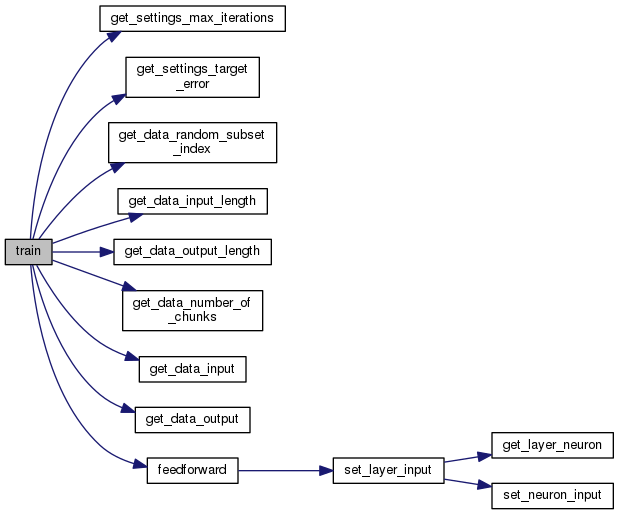
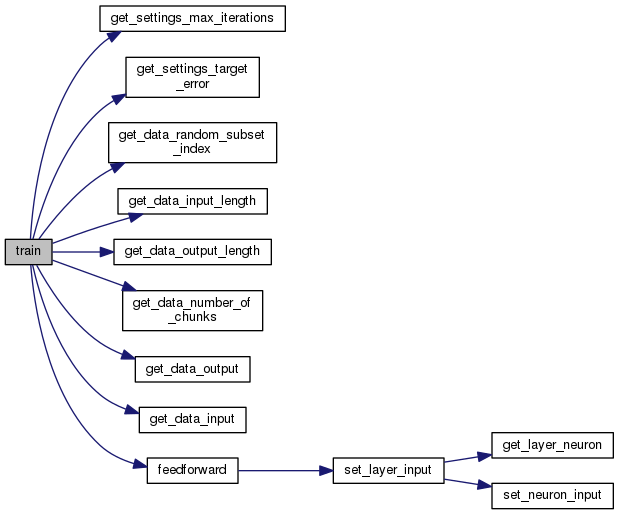
Each signal chunk leads to the same network output Splitting main training for loop into 2 inner loop one for forward propagation and the second one for backpropagation

Changed region(s): [[0.1842, 0.6835, 0.4297, 0.7456], [0.1842, 0.7767, 0.4297, 0.8388]]

diff --git a/docs/brain__data__reader_8h.html b/docs/brain__data__reader_8h.html
@@ -133,9 +133,9 @@ Functions</h2></td></tr>
 <tr class="memitem:a07ee5e28be472c0bb963e72211421251"><td class="memItemLeft" align="right" valign="top">BrainSignal&#160;</td><td class="memItemRight" valign="bottom"><a class="el" href="brain__data__reader_8h.html#a07ee5e28be472c0bb963e72211421251">get_data_input</a> (const <a class="el" href="brain__types_8h.html#add44c3d64045810f58dd68fbcdc8ef42">BrainData</a> data, const BrainUint index, const BrainUint chunk_index)</td></tr>
 <tr class="memdesc:a07ee5e28be472c0bb963e72211421251"><td class="mdescLeft">&#160;</td><td class="mdescRight">get on input signal from the BrainData  <a href="#a07ee5e28be472c0bb963e72211421251">More...</a><br /></td></tr>
 <tr class="separator:a07ee5e28be472c0bb963e72211421251"><td class="memSeparator" colspan="2">&#160;</td></tr>
-<tr class="memitem:a7386bfe0d72cb80b4d79bde89164f2c5"><td class="memItemLeft" align="right" valign="top">BrainSignal&#160;</td><td class="memItemRight" valign="bottom"><a class="el" href="brain__data__reader_8h.html#a7386bfe0d72cb80b4d79bde89164f2c5">get_data_output</a> (const <a class="el" href="brain__types_8h.html#add44c3d64045810f58dd68fbcdc8ef42">BrainData</a> data, const BrainUint index, const BrainUint chunk_index)</td></tr>
-<tr class="memdesc:a7386bfe0d72cb80b4d79bde89164f2c5"><td class="mdescLeft">&#160;</td><td class="mdescRight">get an output signal from the BrainData  <a href="#a7386bfe0d72cb80b4d79bde89164f2c5">More...</a><br /></td></tr>
-<tr class="separator:a7386bfe0d72cb80b4d79bde89164f2c5"><td class="memSeparator" colspan="2">&#160;</td></tr>
+<tr class="memitem:af86bd7390f646a72c63ec78f34643c7d"><td class="memItemLeft" align="right" valign="top">BrainSignal&#160;</td><td class="memItemRight" valign="bottom"><a class="el" href="brain__data__reader_8h.html#af86bd7390f646a72c63ec78f34643c7d">get_data_output</a> (const <a class="el" href="brain__types_8h.html#add44c3d64045810f58dd68fbcdc8ef42">BrainData</a> data, const BrainUint index)</td></tr>
+<tr class="memdesc:af86bd7390f646a72c63ec78f34643c7d"><td class="mdescLeft">&#160;</td><td class="mdescRight">get an output signal from the BrainData  <a href="#af86bd7390f646a72c63ec78f34643c7d">More...</a><br /></td></tr>
+<tr class="separator:af86bd7390f646a72c63ec78f34643c7d"><td class="memSeparator" colspan="2">&#160;</td></tr>
 <tr class="memitem:a054cc968ff8383d3b163812441d3dcf3"><td class="memItemLeft" align="right" valign="top">BrainUint&#160;</td><td class="memItemRight" valign="bottom"><a class="el" href="brain__data__reader_8h.html#a054cc968ff8383d3b163812441d3dcf3">get_data_random_subset_index</a> (const <a class="el" href="brain__types_8h.html#add44c3d64045810f58dd68fbcdc8ef42">BrainData</a> data)</td></tr>
 <tr class="memdesc:a054cc968ff8383d3b163812441d3dcf3"><td class="mdescLeft">&#160;</td><td class="mdescRight">get a random input index  <a href="#a054cc968ff8383d3b163812441d3dcf3">More...</a><br /></td></tr>
 <tr class="separator:a054cc968ff8383d3b163812441d3dcf3"><td class="memSeparator" colspan="2">&#160;</td></tr>
@@ -376,7 +376,7 @@ Functions</h2></td></tr>
 
 </div>
 </div>
-<a class="anchor" id="a7386bfe0d72cb80b4d79bde89164f2c5"></a>
+<a class="anchor" id="af86bd7390f646a72c63ec78f34643c7d"></a>
 <div class="memitem">
 <div class="memproto">
       <table class="memname">
@@ -390,13 +390,7 @@ Functions</h2></td></tr>
           <td class="paramkey"></td>
           <td></td>
           <td class="paramtype">const BrainUint&#160;</td>
-          <td class="paramname"><em>index</em>, </td>
-        </tr>
-        <tr>
-          <td class="paramkey"></td>
-          <td></td>
-          <td class="paramtype">const BrainUint&#160;</td>
-          <td class="paramname"><em>chunk_index</em>&#160;</td>
+          <td class="paramname"><em>index</em>&#160;</td>
         </tr>
         <tr>
           <td></td>
@@ -410,8 +404,7 @@ Functions</h2></td></tr>
 <dl class="params"><dt>Parameters</dt><dd>
   <table class="params">
     <tr><td class="paramname">data</td><td>The BrainData struct </td></tr>
-    <tr><td class="paramname">index</td><td>the output signal index </td></tr>
-    <tr><td class="paramname">chunk_index</td><td>Signal chunk index</td></tr>
+    <tr><td class="paramname">index</td><td>the output signal index</td></tr>
   </table>
   </dd>
 </dl>
@@ -422,8 +415,8 @@ Functions</h2></td></tr>
 <div id="dynsection-5-summary" class="dynsummary" style="display:block;">
 </div>
 <div id="dynsection-5-content" class="dyncontent" style="display:none;">
-<div class="center"><img src="brain__data__reader_8h_a7386bfe0d72cb80b4d79bde89164f2c5_icgraph.png" border="0" usemap="#brain__data__reader_8h_a7386bfe0d72cb80b4d79bde89164f2c5_icgraph" alt=""/></div>
-<map name="brain__data__reader_8h_a7386bfe0d72cb80b4d79bde89164f2c5_icgraph" id="brain__data__reader_8h_a7386bfe0d72cb80b4d79bde89164f2c5_icgraph">
+<div class="center"><img src="brain__data__reader_8h_af86bd7390f646a72c63ec78f34643c7d_icgraph.png" border="0" usemap="#brain__data__reader_8h_af86bd7390f646a72c63ec78f34643c7d_icgraph" alt=""/></div>
+<map name="brain__data__reader_8h_af86bd7390f646a72c63ec78f34643c7d_icgraph" id="brain__data__reader_8h_af86bd7390f646a72c63ec78f34643c7d_icgraph">
 <area shape="rect" id="node2" href="brain__network__builder_8h.html#afb150beb6b56e58557b97e41291595eb" title="launch the training process for the neural network " alt="" coords="168,5,215,32"/></map>
 </div>
 </p>
@@ -562,7 +555,7 @@ Functions</h2></td></tr>
 <div id="nav-path" class="navpath"><!-- id is needed for treeview function! -->
   <ul>
     <li class="navelem"><a class="el" href="dir_bb5fc065f306d4c7566e1c0cbc3a8658.html">libBrain</a></li><li class="navelem"><a class="el" href="dir_50fb934e504a511d868cd5beea725daa.html">src</a></li><li class="navelem"><a class="el" href="dir_f5403d165038cad814c77f643c15b64b.html">brain</a></li><li class="navelem"><a class="el" href="brain__data__reader_8h.html">brain_data_reader.h</a></li>
-    <li class="footer">Generated on Sat Dec 24 2016 18:09:58 for libBrain by
+    <li class="footer">Generated on Mon Dec 26 2016 18:58:37 for libBrain by
     <a href="http://www.doxygen.org/index.html">
     <img class="footer" src="doxygen.png" alt="doxygen"/></a> 1.8.8 </li>
   </ul>

diff --git a/docs/brain__network__builder_8h.html b/docs/brain__network__builder_8h.html
@@ -418,7 +418,7 @@ Functions</h2></td></tr>
 <div id="dynsection-6-content" class="dyncontent" style="display:none;">
 <div class="center"><img src="brain__network__builder_8h_afb150beb6b56e58557b97e41291595eb_cgraph.png" border="0" usemap="#brain__network__builder_8h_afb150beb6b56e58557b97e41291595eb_cgraph" alt=""/></div>
 <map name="brain__network__builder_8h_afb150beb6b56e58557b97e41291595eb_cgraph" id="brain__network__builder_8h_afb150beb6b56e58557b97e41291595eb_cgraph">
-<area shape="rect" id="node2" href="brain__settings_8h.html#adcd9fce1bf393ce82be8a25602b791c1" title="get training max iterations " alt="" coords="100,5,285,32"/><area shape="rect" id="node3" href="brain__settings_8h.html#a4a70e388d52dc4c605d9a9d9932847a0" title="get training target error " alt="" coords="126,57,259,98"/><area shape="rect" id="node4" href="brain__data__reader_8h.html#a054cc968ff8383d3b163812441d3dcf3" title="get a random input index " alt="" coords="109,122,277,163"/><area shape="rect" id="node5" href="brain__data__reader_8h.html#a042d67d146c4a88afd7ba4febfd7cb13" title="get input signal length " alt="" coords="118,188,267,215"/><area shape="rect" id="node6" href="brain__data__reader_8h.html#a9c1590c4134d47b33f8b9665fa3559ab" title="get output signal length " alt="" coords="114,239,271,265"/><area shape="rect" id="node7" href="brain__data__reader_8h.html#a6ea2eb8d6327f5ed53b1f71aa4b207b5" title="get the number of chunk for a signal " alt="" coords="123,290,263,331"/><area shape="rect" id="node8" href="brain__data__reader_8h.html#a07ee5e28be472c0bb963e72211421251" title="get on input signal from the BrainData " alt="" coords="139,356,246,383"/><area shape="rect" id="node9" href="brain__data__reader_8h.html#a7386bfe0d72cb80b4d79bde89164f2c5" title="get an output signal from the BrainData " alt="" coords="135,407,250,433"/><area shape="rect" id="node10" href="brain__network__builder_8h.html#a898f07e0d90f3dee6b627ae2b7d96f71" title="propagate an input signal from the input signal to the output layer " alt="" coords="147,457,238,484"/><area shape="rect" id="node11" href="brain__layer__builder_8h.html#a93b759f69b75965db34e744cfec2cf9b" title="set the layer input " alt="" coords="333,457,444,484"/><area shape="rect" id="node12" href="brain__layer__builder_8h.html#a8b6c1e634e8d7b7fcfe3a526c6b11755" title="get a Neuron from the layer " alt="" coords="492,432,613,459"/><area shape="rect" id="node13" href="brain__neuron__builder_8h.html#a1ce5aca37f6d481fe80722ac65fcb39c" title="set the input signal on a neuron " alt="" coords="492,483,613,509"/></map>
+<area shape="rect" id="node2" href="brain__settings_8h.html#adcd9fce1bf393ce82be8a25602b791c1" title="get training max iterations " alt="" coords="100,5,285,32"/><area shape="rect" id="node3" href="brain__settings_8h.html#a4a70e388d52dc4c605d9a9d9932847a0" title="get training target error " alt="" coords="126,57,259,98"/><area shape="rect" id="node4" href="brain__data__reader_8h.html#a054cc968ff8383d3b163812441d3dcf3" title="get a random input index " alt="" coords="109,122,277,163"/><area shape="rect" id="node5" href="brain__data__reader_8h.html#a042d67d146c4a88afd7ba4febfd7cb13" title="get input signal length " alt="" coords="118,188,267,215"/><area shape="rect" id="node6" href="brain__data__reader_8h.html#a9c1590c4134d47b33f8b9665fa3559ab" title="get output signal length " alt="" coords="114,239,271,265"/><area shape="rect" id="node7" href="brain__data__reader_8h.html#a6ea2eb8d6327f5ed53b1f71aa4b207b5" title="get the number of chunk for a signal " alt="" coords="123,290,263,331"/><area shape="rect" id="node8" href="brain__data__reader_8h.html#af86bd7390f646a72c63ec78f34643c7d" title="get an output signal from the BrainData " alt="" coords="135,356,250,383"/><area shape="rect" id="node9" href="brain__data__reader_8h.html#a07ee5e28be472c0bb963e72211421251" title="get on input signal from the BrainData " alt="" coords="139,407,246,433"/><area shape="rect" id="node10" href="brain__network__builder_8h.html#a898f07e0d90f3dee6b627ae2b7d96f71" title="propagate an input signal from the input signal to the output layer " alt="" coords="147,457,238,484"/><area shape="rect" id="node11" href="brain__layer__builder_8h.html#a93b759f69b75965db34e744cfec2cf9b" title="set the layer input " alt="" coords="333,457,444,484"/><area shape="rect" id="node12" href="brain__layer__builder_8h.html#a8b6c1e634e8d7b7fcfe3a526c6b11755" title="get a Neuron from the layer " alt="" coords="492,432,613,459"/><area shape="rect" id="node13" href="brain__neuron__builder_8h.html#a1ce5aca37f6d481fe80722ac65fcb39c" title="set the input signal on a neuron " alt="" coords="492,483,613,509"/></map>
 </div>
 </p>
 
@@ -430,7 +430,7 @@ Functions</h2></td></tr>
 <div id="nav-path" class="navpath"><!-- id is needed for treeview function! -->
   <ul>
     <li class="navelem"><a class="el" href="dir_bb5fc065f306d4c7566e1c0cbc3a8658.html">libBrain</a></li><li class="navelem"><a class="el" href="dir_50fb934e504a511d868cd5beea725daa.html">src</a></li><li class="navelem"><a class="el" href="dir_f5403d165038cad814c77f643c15b64b.html">brain</a></li><li class="navelem"><a class="el" href="brain__network__builder_8h.html">brain_network_builder.h</a></li>
-    <li class="footer">Generated on Sat Dec 24 2016 18:09:58 for libBrain by
+    <li class="footer">Generated on Mon Dec 26 2016 18:58:37 for libBrain by
     <a href="http://www.doxygen.org/index.html">
     <img class="footer" src="doxygen.png" alt="doxygen"/></a> 1.8.8 </li>
   </ul>

diff --git a/docs/search/all_6.js b/docs/search/all_6.js
@@ -3,7 +3,7 @@ var searchData=
   ['get_5fdata_5finput',['get_data_input',['../brain__data__reader_8h.html#a07ee5e28be472c0bb963e72211421251',1,'brain_data_reader.c']]],
   ['get_5fdata_5finput_5flength',['get_data_input_length',['../brain__data__reader_8h.html#a042d67d146c4a88afd7ba4febfd7cb13',1,'brain_data_reader.c']]],
   ['get_5fdata_5fnumber_5fof_5fchunks',['get_data_number_of_chunks',['../brain__data__reader_8h.html#a6ea2eb8d6327f5ed53b1f71aa4b207b5',1,'brain_data_reader.c']]],
-  ['get_5fdata_5foutput',['get_data_output',['../brain__data__reader_8h.html#a7386bfe0d72cb80b4d79bde89164f2c5',1,'brain_data_reader.c']]],
+  ['get_5fdata_5foutput',['get_data_output',['../brain__data__reader_8h.html#af86bd7390f646a72c63ec78f34643c7d',1,'brain_data_reader.c']]],
   ['get_5fdata_5foutput_5flength',['get_data_output_length',['../brain__data__reader_8h.html#a9c1590c4134d47b33f8b9665fa3559ab',1,'brain_data_reader.c']]],
   ['get_5fdata_5frandom_5fsubset_5findex',['get_data_random_subset_index',['../brain__data__reader_8h.html#a054cc968ff8383d3b163812441d3dcf3',1,'brain_data_reader.c']]],
   ['get_5flayer_5fneuron',['get_layer_neuron',['../brain__layer__builder_8h.html#a8b6c1e634e8d7b7fcfe3a526c6b11755',1,'brain_layer_builder.c']]],

diff --git a/docs/search/functions_3.js b/docs/search/functions_3.js
@@ -3,7 +3,7 @@ var searchData=
   ['get_5fdata_5finput',['get_data_input',['../brain__data__reader_8h.html#a07ee5e28be472c0bb963e72211421251',1,'brain_data_reader.c']]],
   ['get_5fdata_5finput_5flength',['get_data_input_length',['../brain__data__reader_8h.html#a042d67d146c4a88afd7ba4febfd7cb13',1,'brain_data_reader.c']]],
   ['get_5fdata_5fnumber_5fof_5fchunks',['get_data_number_of_chunks',['../brain__data__reader_8h.html#a6ea2eb8d6327f5ed53b1f71aa4b207b5',1,'brain_data_reader.c']]],
-  ['get_5fdata_5foutput',['get_data_output',['../brain__data__reader_8h.html#a7386bfe0d72cb80b4d79bde89164f2c5',1,'brain_data_reader.c']]],
+  ['get_5fdata_5foutput',['get_data_output',['../brain__data__reader_8h.html#af86bd7390f646a72c63ec78f34643c7d',1,'brain_data_reader.c']]],
   ['get_5fdata_5foutput_5flength',['get_data_output_length',['../brain__data__reader_8h.html#a9c1590c4134d47b33f8b9665fa3559ab',1,'brain_data_reader.c']]],
   ['get_5fdata_5frandom_5fsubset_5findex',['get_data_random_subset_index',['../brain__data__reader_8h.html#a054cc968ff8383d3b163812441d3dcf3',1,'brain_data_reader.c']]],
   ['get_5flayer_5fneuron',['get_layer_neuron',['../brain__layer__builder_8h.html#a8b6c1e634e8d7b7fcfe3a526c6b11755',1,'brain_layer_builder.c']]],

diff --git a/docs/globals_func.html b/docs/globals_func.html
@@ -175,7 +175,7 @@ $(document).ready(function(){initNavTree('globals_func.html','');});
 : <a class="el" href="brain__data__reader_8h.html#a6ea2eb8d6327f5ed53b1f71aa4b207b5">brain_data_reader.h</a>
 </li>
 <li>get_data_output()
-: <a class="el" href="brain__data__reader_8h.html#a7386bfe0d72cb80b4d79bde89164f2c5">brain_data_reader.h</a>
+: <a class="el" href="brain__data__reader_8h.html#af86bd7390f646a72c63ec78f34643c7d">brain_data_reader.h</a>
 </li>
 <li>get_data_output_length()
 : <a class="el" href="brain__data__reader_8h.html#a9c1590c4134d47b33f8b9665fa3559ab">brain_data_reader.h</a>
@@ -318,7 +318,7 @@ $(document).ready(function(){initNavTree('globals_func.html','');});
 <!-- start footer part -->
 <div id="nav-path" class="navpath"><!-- id is needed for treeview function! -->
   <ul>
-    <li class="footer">Generated on Sat Dec 24 2016 18:09:58 for libBrain by
+    <li class="footer">Generated on Mon Dec 26 2016 18:58:38 for libBrain by
     <a href="http://www.doxygen.org/index.html">
     <img class="footer" src="doxygen.png" alt="doxygen"/></a> 1.8.8 </li>
   </ul>

diff --git a/docs/globals.html b/docs/globals.html
@@ -224,7 +224,7 @@ $(document).ready(function(){initNavTree('globals.html','');});
 : <a class="el" href="brain__data__reader_8h.html#a6ea2eb8d6327f5ed53b1f71aa4b207b5">brain_data_reader.h</a>
 </li>
 <li>get_data_output()
-: <a class="el" href="brain__data__reader_8h.html#a7386bfe0d72cb80b4d79bde89164f2c5">brain_data_reader.h</a>
+: <a class="el" href="brain__data__reader_8h.html#af86bd7390f646a72c63ec78f34643c7d">brain_data_reader.h</a>
 </li>
 <li>get_data_output_length()
 : <a class="el" href="brain__data__reader_8h.html#a9c1590c4134d47b33f8b9665fa3559ab">brain_data_reader.h</a>
@@ -415,7 +415,7 @@ $(document).ready(function(){initNavTree('globals.html','');});
 <!-- start footer part -->
 <div id="nav-path" class="navpath"><!-- id is needed for treeview function! -->
   <ul>
-    <li class="footer">Generated on Sat Dec 24 2016 18:09:58 for libBrain by
+    <li class="footer">Generated on Mon Dec 26 2016 18:58:38 for libBrain by
     <a href="http://www.doxygen.org/index.html">
     <img class="footer" src="doxygen.png" alt="doxygen"/></a> 1.8.8 </li>
   </ul>

diff --git a/docs/struct_data.html b/docs/struct_data.html
@@ -116,8 +116,6 @@ $(document).ready(function(){initNavTree('struct_data.html','');});
 </div>
 <div id="dynsection-0-content" class="dyncontent" style="display:none;">
 <div class="center"><img src="struct_data__coll__graph.png" border="0" usemap="#_data_coll__map" alt="Collaboration graph"/></div>
-<map name="_data_coll__map" id="_data_coll__map">
-</map>
 </div>
 <table class="memberdecls">
 <tr class="heading"><td colspan="2"><h2 class="groupheader"><a name="pub-attribs"></a>
@@ -256,7 +254,7 @@ Data Fields</h2></td></tr>
 <div id="nav-path" class="navpath"><!-- id is needed for treeview function! -->
   <ul>
     <li class="navelem"><a class="el" href="struct_data.html">Data</a></li>
-    <li class="footer">Generated on Sat Dec 24 2016 18:09:58 for libBrain by
+    <li class="footer">Generated on Mon Dec 26 2016 18:58:37 for libBrain by
     <a href="http://www.doxygen.org/index.html">
     <img class="footer" src="doxygen.png" alt="doxygen"/></a> 1.8.8 </li>
   </ul>

diff --git a/docs/brain__data__reader_8h.js b/docs/brain__data__reader_8h.js
@@ -5,7 +5,7 @@ var brain__data__reader_8h =
     [ "get_data_input", "brain__data__reader_8h.html#a07ee5e28be472c0bb963e72211421251", null ],
     [ "get_data_input_length", "brain__data__reader_8h.html#a042d67d146c4a88afd7ba4febfd7cb13", null ],
     [ "get_data_number_of_chunks", "brain__data__reader_8h.html#a6ea2eb8d6327f5ed53b1f71aa4b207b5", null ],
-    [ "get_data_output", "brain__data__reader_8h.html#a7386bfe0d72cb80b4d79bde89164f2c5", null ],
+    [ "get_data_output", "brain__data__reader_8h.html#af86bd7390f646a72c63ec78f34643c7d", null ],
     [ "get_data_output_length", "brain__data__reader_8h.html#a9c1590c4134d47b33f8b9665fa3559ab", null ],
     [ "get_data_random_subset_index", "brain__data__reader_8h.html#a054cc968ff8383d3b163812441d3dcf3", null ],
     [ "new_data", "brain__data__reader_8h.html#a15bbad13cb6a3877c752af7b5e39a61a", null ]

diff --git a/docs/brain__neuron__builder_8h.html b/docs/brain__neuron__builder_8h.html
@@ -523,7 +523,7 @@ Functions</h2></td></tr>
 <div id="nav-path" class="navpath"><!-- id is needed for treeview function! -->
   <ul>
     <li class="navelem"><a class="el" href="dir_bb5fc065f306d4c7566e1c0cbc3a8658.html">libBrain</a></li><li class="navelem"><a class="el" href="dir_50fb934e504a511d868cd5beea725daa.html">src</a></li><li class="navelem"><a class="el" href="dir_f5403d165038cad814c77f643c15b64b.html">brain</a></li><li class="navelem"><a class="el" href="brain__neuron__builder_8h.html">brain_neuron_builder.h</a></li>
-    <li class="footer">Generated on Sat Dec 24 2016 18:09:58 for libBrain by
+    <li class="footer">Generated on Mon Dec 26 2016 18:58:37 for libBrain by
     <a href="http://www.doxygen.org/index.html">
     <img class="footer" src="doxygen.png" alt="doxygen"/></a> 1.8.8 </li>
   </ul>

diff --git a/docs/brain__layer__builder_8h.html b/docs/brain__layer__builder_8h.html
@@ -469,7 +469,7 @@ Functions</h2></td></tr>
 <div id="nav-path" class="navpath"><!-- id is needed for treeview function! -->
   <ul>
     <li class="navelem"><a class="el" href="dir_bb5fc065f306d4c7566e1c0cbc3a8658.html">libBrain</a></li><li class="navelem"><a class="el" href="dir_50fb934e504a511d868cd5beea725daa.html">src</a></li><li class="navelem"><a class="el" href="dir_f5403d165038cad814c77f643c15b64b.html">brain</a></li><li class="navelem"><a class="el" href="brain__layer__builder_8h.html">brain_layer_builder.h</a></li>
-    <li class="footer">Generated on Sat Dec 24 2016 18:09:58 for libBrain by
+    <li class="footer">Generated on Mon Dec 26 2016 18:58:37 for libBrain by
     <a href="http://www.doxygen.org/index.html">
     <img class="footer" src="doxygen.png" alt="doxygen"/></a> 1.8.8 </li>
   </ul>

diff --git a/docs/brain__builder_8h.html b/docs/brain__builder_8h.html
@@ -261,7 +261,7 @@ Functions</h2></td></tr>
 <div id="nav-path" class="navpath"><!-- id is needed for treeview function! -->
   <ul>
     <li class="navelem"><a class="el" href="dir_bb5fc065f306d4c7566e1c0cbc3a8658.html">libBrain</a></li><li class="navelem"><a class="el" href="dir_50fb934e504a511d868cd5beea725daa.html">src</a></li><li class="navelem"><a class="el" href="dir_827e07ebf67888999800a5fb799d1e3f.html">builder</a></li><li class="navelem"><a class="el" href="brain__builder_8h.html">brain_builder.h</a></li>
-    <li class="footer">Generated on Sat Dec 24 2016 18:09:58 for libBrain by
+    <li class="footer">Generated on Mon Dec 26 2016 18:58:37 for libBrain by
     <a href="http://www.doxygen.org/index.html">
     <img class="footer" src="doxygen.png" alt="doxygen"/></a> 1.8.8 </li>
   </ul>

diff --git a/docs/brain__settings_8h.html b/docs/brain__settings_8h.html
@@ -771,7 +771,7 @@ Functions</h2></td></tr>
 <div id="nav-path" class="navpath"><!-- id is needed for treeview function! -->
   <ul>
     <li class="navelem"><a class="el" href="dir_bb5fc065f306d4c7566e1c0cbc3a8658.html">libBrain</a></li><li class="navelem"><a class="el" href="dir_50fb934e504a511d868cd5beea725daa.html">src</a></li><li class="navelem"><a class="el" href="dir_f5403d165038cad814c77f643c15b64b.html">brain</a></li><li class="navelem"><a class="el" href="brain__settings_8h.html">brain_settings.h</a></li>
-    <li class="footer">Generated on Sat Dec 24 2016 18:09:58 for libBrain by
+    <li class="footer">Generated on Mon Dec 26 2016 18:58:37 for libBrain by
     <a href="http://www.doxygen.org/index.html">
     <img class="footer" src="doxygen.png" alt="doxygen"/></a> 1.8.8 </li>
   </ul>
